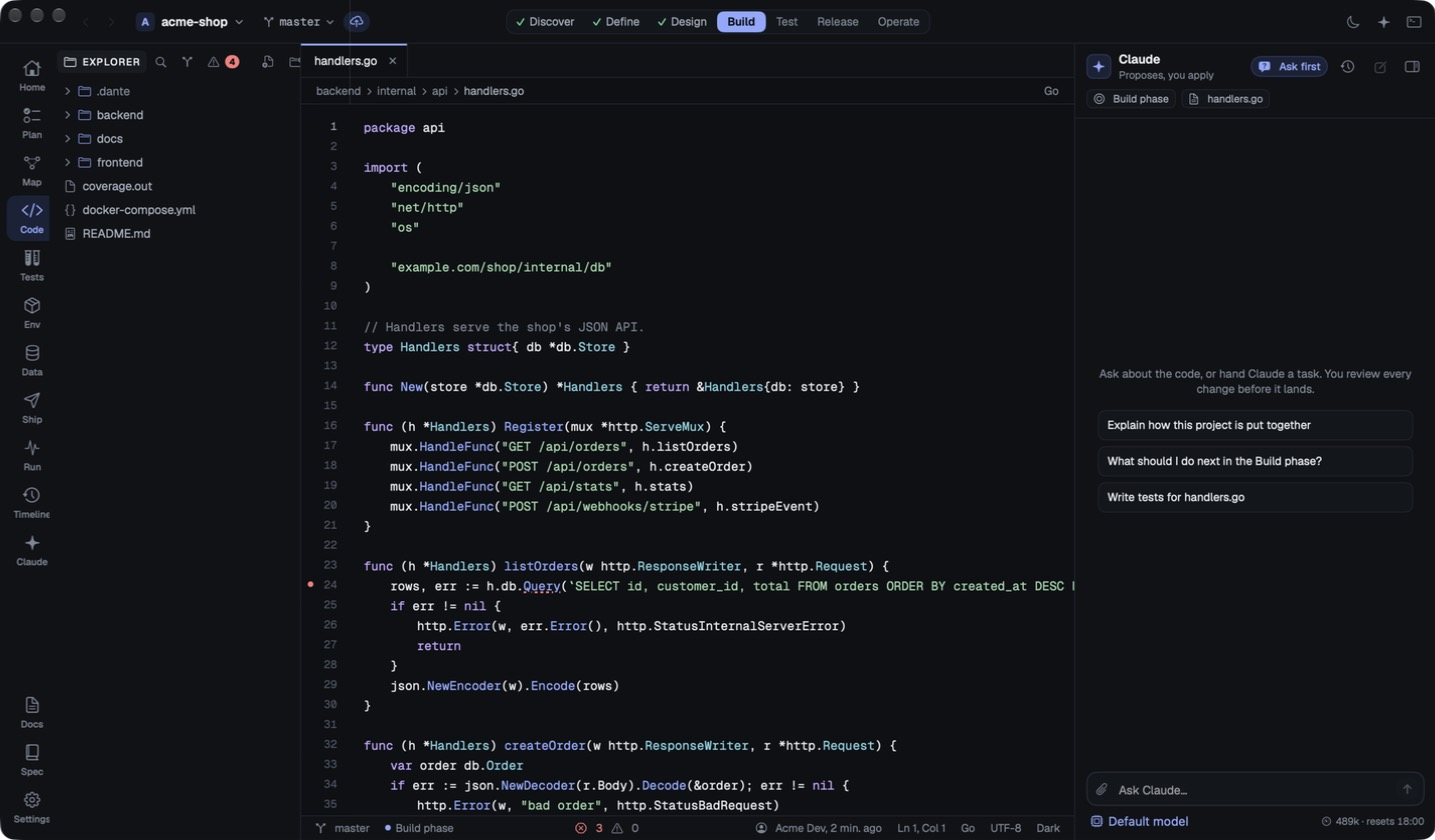
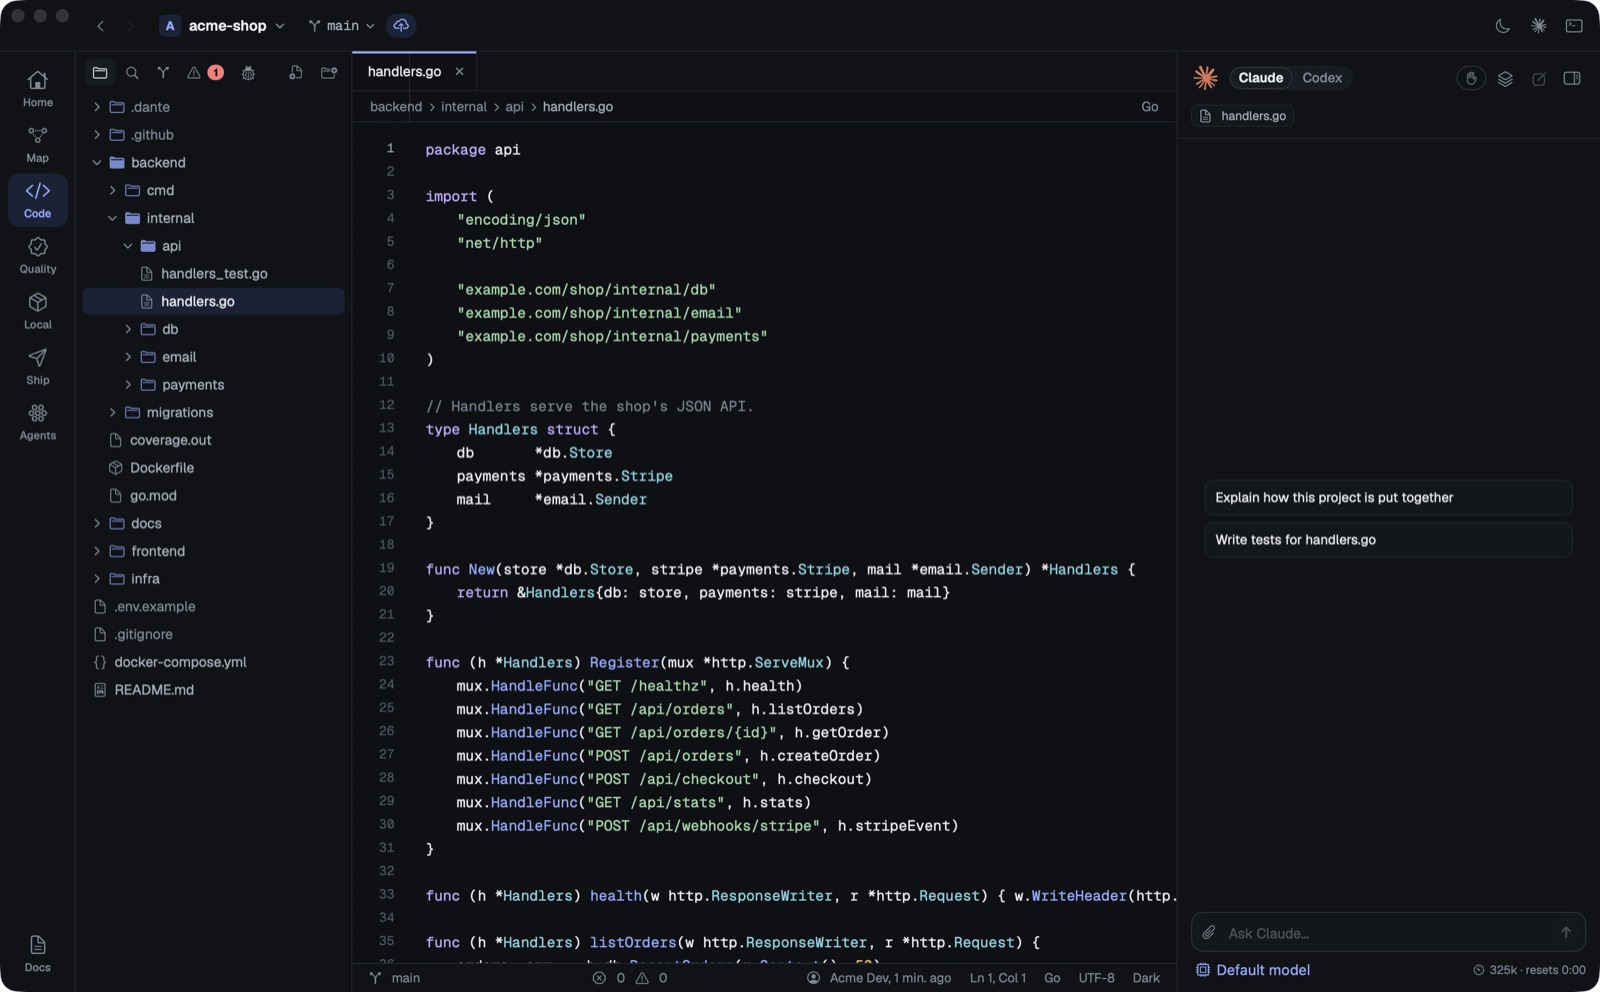
README: new screenshots from a demo shop; Docs drops the last planning labels
The Map, editor, Docs, Security and Infra shots come from a made-up shop
project in a test copy. Docs files kept in .dante are grouped as Notes
rather than Plan, and the side panel lists the files a doc mentions only
when there are some.

diff --git a/Sources/DanteKit/Project/DocLibrary.swift b/Sources/DanteKit/Project/DocLibrary.swift
@@ -134,7 +134,7 @@ public struct DocLibrary: Equatable, Sendable {
         case "Project", "Elsewhere": return directory
         case "Motion": return ""
         case "Docs": root = directory.split(separator: "/").first.map(String.init) ?? ""
-        case "Plan": root = ".dante"
+        case "Notes": root = ".dante"
         default: root = directory.split(separator: "/").prefix(2).joined(separator: "/")
         }
         guard directory.count > root.count, directory.hasPrefix(root + "/") else { return "" }
@@ -184,7 +184,7 @@ public struct DocLibrary: Equatable, Sendable {
         } + buckets.keys.sorted().map { Group(title: $0, docs: buckets[$0]!.sorted(by: Self.ordered)) }
     }
 
-    static let order = ["Project", "Motion", "Specs", "Decisions", "Runbooks", "Plan", "Phases", "Docs", "Elsewhere"]
+    static let order = ["Project", "Motion", "Specs", "Decisions", "Runbooks", "Notes", "Phases", "Docs", "Elsewhere"]
 
     static func group(for path: String) -> String {
         let parts = path.split(separator: "/").map(String.init)
@@ -195,7 +195,7 @@ public struct DocLibrary: Equatable, Sendable {
             case "decisions", "adr", "adrs": return "Decisions"
             case "runbooks": return "Runbooks"
             case "phases": return "Phases"
-            default: return "Plan"
+            default: return "Notes"
             }
         }
         if MotionPiece.isManifest(path) { return "Motion" }

diff --git a/Sources/DanteApp/Views/Areas/DocsLinkedPanel.swift b/Sources/DanteApp/Views/Areas/DocsLinkedPanel.swift
@@ -35,15 +35,9 @@ struct LinkedPanel: View {
                             .help(entry.text)
                         }
                     }
-                    Rectangle().fill(theme.line.color).frame(height: 1).padding(.vertical, 6)
+                    if !files.isEmpty { Rectangle().fill(theme.line.color).frame(height: 1).padding(.vertical, 6) }
                 }
-                Eyebrow("Linked to this doc")
-                if files.isEmpty {
-                    Text("Nothing linked")
-                        .font(.dante(size: 12))
-                        .foregroundStyle(theme.text3.color)
-                        .fixedSize(horizontal: false, vertical: true)
-                }
+                if !files.isEmpty { Eyebrow("Files it mentions") }
                 ForEach(files, id: \.self) { file in
                     note(symbol: "doc.text", title: (file as NSString).lastPathComponent, subtitle: file) {
                         if DocLibrary(paths: [file]).isEmpty {

diff --git a/Tests/DanteKitTests/DocLibraryTests.swift b/Tests/DanteKitTests/DocLibraryTests.swift
@@ -20,7 +20,7 @@ import Testing
         #expect(docs[1].images.count == 2)
         #expect(docs[1].others.isEmpty)
         #expect(group("Specs").sections.map(\.folder) == ["", "payments"])
-        #expect(group("Plan").sections.map(\.folder) == ["", "jobs"])
+        #expect(group("Notes").sections.map(\.folder) == ["", "jobs"])
         #expect(group("Elsewhere").sections.map(\.folder) == ["api", "frontend"])
         #expect(group("Project").sections.map(\.folder) == [""])
     }

diff --git a/Sources/DanteApp/Views/Areas/DocsLibraryView.swift b/Sources/DanteApp/Views/Areas/DocsLibraryView.swift
@@ -221,7 +221,7 @@ struct DocsLibraryView: View {
         case "Specs": "list.bullet.rectangle"
         case "Decisions": "signpost.right"
         case "Runbooks": "book.closed"
-        case "Plan": "map"
+        case "Notes": "map"
         case "Phases": "flag"
         case "Docs": "books.vertical"
         case "Motion": "film.stack"

diff --git a/README.md b/README.md
@@ -6,11 +6,12 @@
 
 Dante reads a project and draws it: screens, API routes, packages, tables, outside services, pipelines and infrastructure, straight from the code. Claude or Codex leads, the other reviews, and local models take the small jobs. Every edit arrives as a diff you approve, a whole turn can be undone, and jobs run in their own worktrees beside you.
 
-![The system map: clients, API routes, backend, data and outside services, with test coverage](docs/images/map.jpg)
+![The system map: clients and screens, API routes (open ones flagged), backend parts, tables and outside services](docs/images/map.jpg)
 
 | | |
 | --- | --- |
-| ![The editor with Claude beside it](docs/images/code.jpg) | ![Docs with a sequence diagram drawn natively](docs/images/docs.jpg) |
+| ![The editor with the agent panel beside it, Claude or Codex in charge](docs/images/code.jpg) | ![Docs with a sequence diagram drawn natively](docs/images/docs.jpg) |
+| ![Security: findings ranked and scored, with the scanners Dante uses](docs/images/security.jpg) | ![The Infra view: the pipeline, the AWS resources it deploys, and how a request travels](docs/images/infra.jpg) |
 
 ## Install
 

diff --git a/spec/pages/docs.md b/spec/pages/docs.md
@@ -14,6 +14,7 @@ Docs is the project's documentation library: markdown with diagrams, PDFs and Wo
 ## Shows
 - The library: recently changed docs, a card per group with excerpts and thumbnails.
 - A doc: markdown rendered with Mermaid diagrams (flowchart, sequence, ER) drawn natively; PDFs, images and Word files in a viewer.
+- Beside a markdown doc: its outline (On this page) and the project files it names in `code` (Files it mentions, shown only when there are some).
 - A sidebar of groups and sections with a filter.
 - The Studio card at the top of the library, and a Motion group with every piece (docs/motion/<name>/motion.yaml).
 - A piece: the scene on a dark stage, captions of the narration, a timeline with its narration lines and a deck's slide stops, and script errors when the scene has any.
